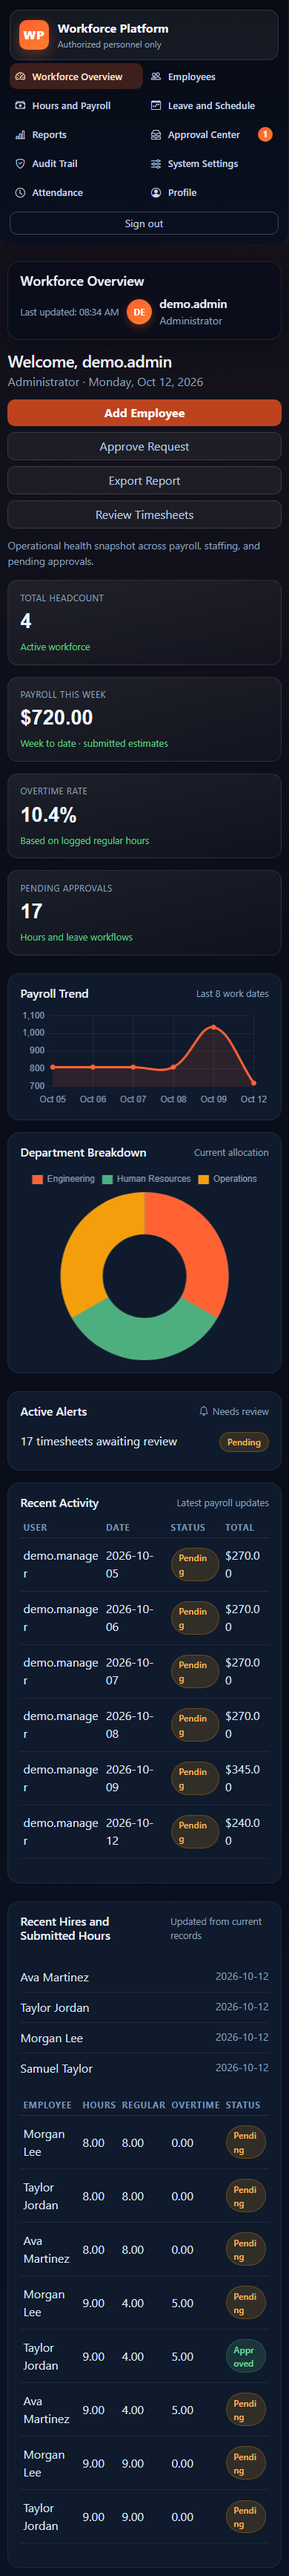
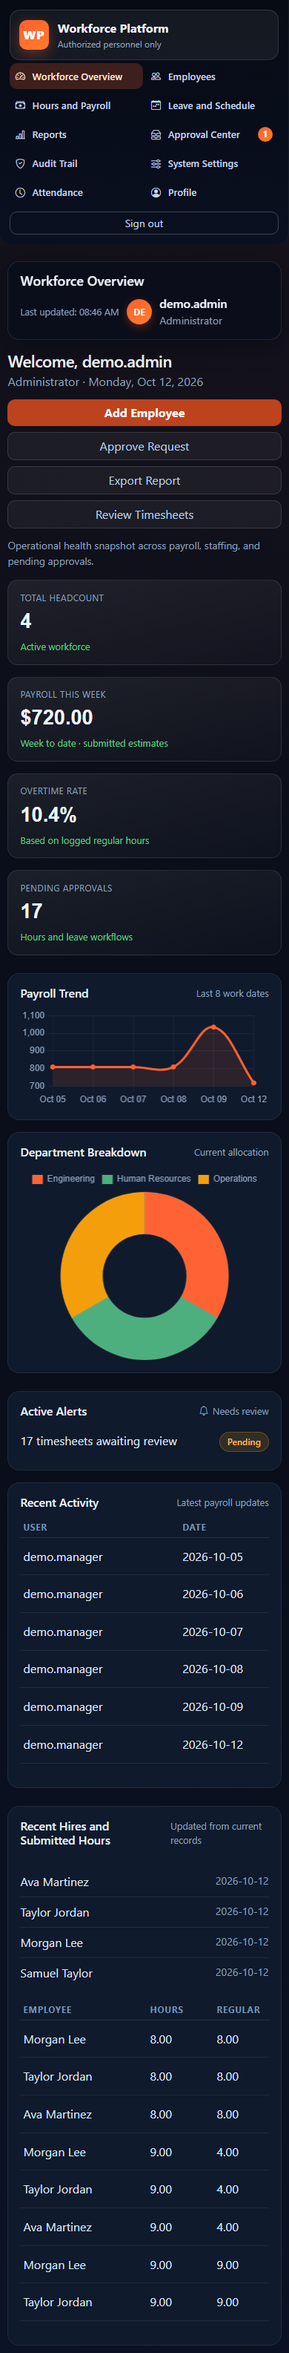
Keep mobile payroll tables readable and verify horizontal scrolling

diff --git a/app/templates/payroll.html b/app/templates/payroll.html
@@ -56,7 +56,8 @@
     <span class="meta-inline"><i class="bi bi-clock-history"></i>Most recent updates first</span>
   </div>
   {% if records %}
-    <div class="table-responsive">
+    <p class="small text-muted d-md-none">Scroll the table to see status and review actions.</p>
+    <div class="table-responsive" tabindex="0" role="region" aria-label="Payroll entries">
       <table class="table table-hover align-middle mb-0">
         <thead>
           <tr>
@@ -72,7 +73,7 @@
         <tbody>
           {% for record in records %}
             <tr>
-              <td>{{ record.work_date }}</td>
+              <td class="text-nowrap">{{ record.work_date }}</td>
               {% if admin_view %}<td>{{ record.employee.full_name() }}</td>{% endif %}
               <td>{{ record.hours_worked|hours }}</td>
               <td>{{ record.overtime_hours|hours }}</td>

diff --git a/app/static/css/accessibility.css b/app/static/css/accessibility.css
@@ -28,6 +28,7 @@ td, dd, .list-group-item { overflow-wrap: anywhere; }
   .auth-brand-premium { display: none; }
   .auth-card-premium { padding: 1.1rem; }
   .table-responsive { overscroll-behavior-inline: contain; }
+  .table-responsive > table { min-width: 640px; }
   .page-head-actions, .page-head-actions .btn { width: 100%; }
 }
 @media (prefers-reduced-motion: reduce) {

diff --git a/scripts/browser_smoke.py b/scripts/browser_smoke.py
@@ -20,8 +20,9 @@ from app.models import Attendance, Employee, PayrollRecord, User, utcnow
 def main():
     parser = argparse.ArgumentParser()
     parser.add_argument("--screenshots", action="store_true")
+    parser.add_argument("--screenshot-dir", type=Path, default=Path("docs/screenshots"))
     options = parser.parse_args()
-    screenshots = Path("docs/screenshots")
+    screenshots = options.screenshot_dir
     if options.screenshots:
         screenshots.mkdir(parents=True, exist_ok=True)
 
@@ -188,6 +189,19 @@ def main():
                     assert page.evaluate(
                         "document.documentElement.scrollWidth <= window.innerWidth"
                     ), path
+                    if path == "/payroll":
+                        region = page.get_by_role("region", name="Payroll entries")
+                        assert region.evaluate("el => el.scrollWidth > el.clientWidth")
+                        assert region.locator("tbody td.text-nowrap").first.evaluate(
+                            """el => {
+                                const text = document.createRange();
+                                text.selectNodeContents(el);
+                                return text.getClientRects().length === 1;
+                            }"""
+                        ), "Payroll dates should remain readable on one line."
+                        region.evaluate("el => el.scrollLeft = el.scrollWidth")
+                        assert region.evaluate("el => el.scrollLeft > 0")
+                        region.evaluate("el => el.scrollLeft = 0")
                     capture(page, name)
                 completed.append(
                     "Mobile dashboard, directory and payroll: no horizontal page overflow"

diff --git a/docs/VERIFICATION.md b/docs/VERIFICATION.md
@@ -26,4 +26,6 @@ Local results are observed executions, not a claim that production operation or 
 
 GitHub Actions runs the same test, lint, format, security, dependency, and browser commands on Python 3.12/Ubuntu. Its result must be read from the pull request; local results alone do not establish a successful hosted CI run.
 
+Hosted CI also completed successfully for the initial implementation commit `0b5cbbc`: [Ubuntu quality checks](https://github.com/AnoHondz/employee-Data-base/actions/runs/38250770446). Later commits run the workflow again; consult the pull request's current checks. A final mobile review added readable, internally scrolling tables and browser assertions that payroll dates occupy one line and the table can be scrolled.
+
 Before production adoption, rotate previously exposed credentials, complete imported-payroll reconciliation, review organization-wide management access, and verify production infrastructure and backups. See [SECURITY.md](SECURITY.md), [MIGRATIONS.md](MIGRATIONS.md), and [BUSINESS_RULES.md](BUSINESS_RULES.md).
